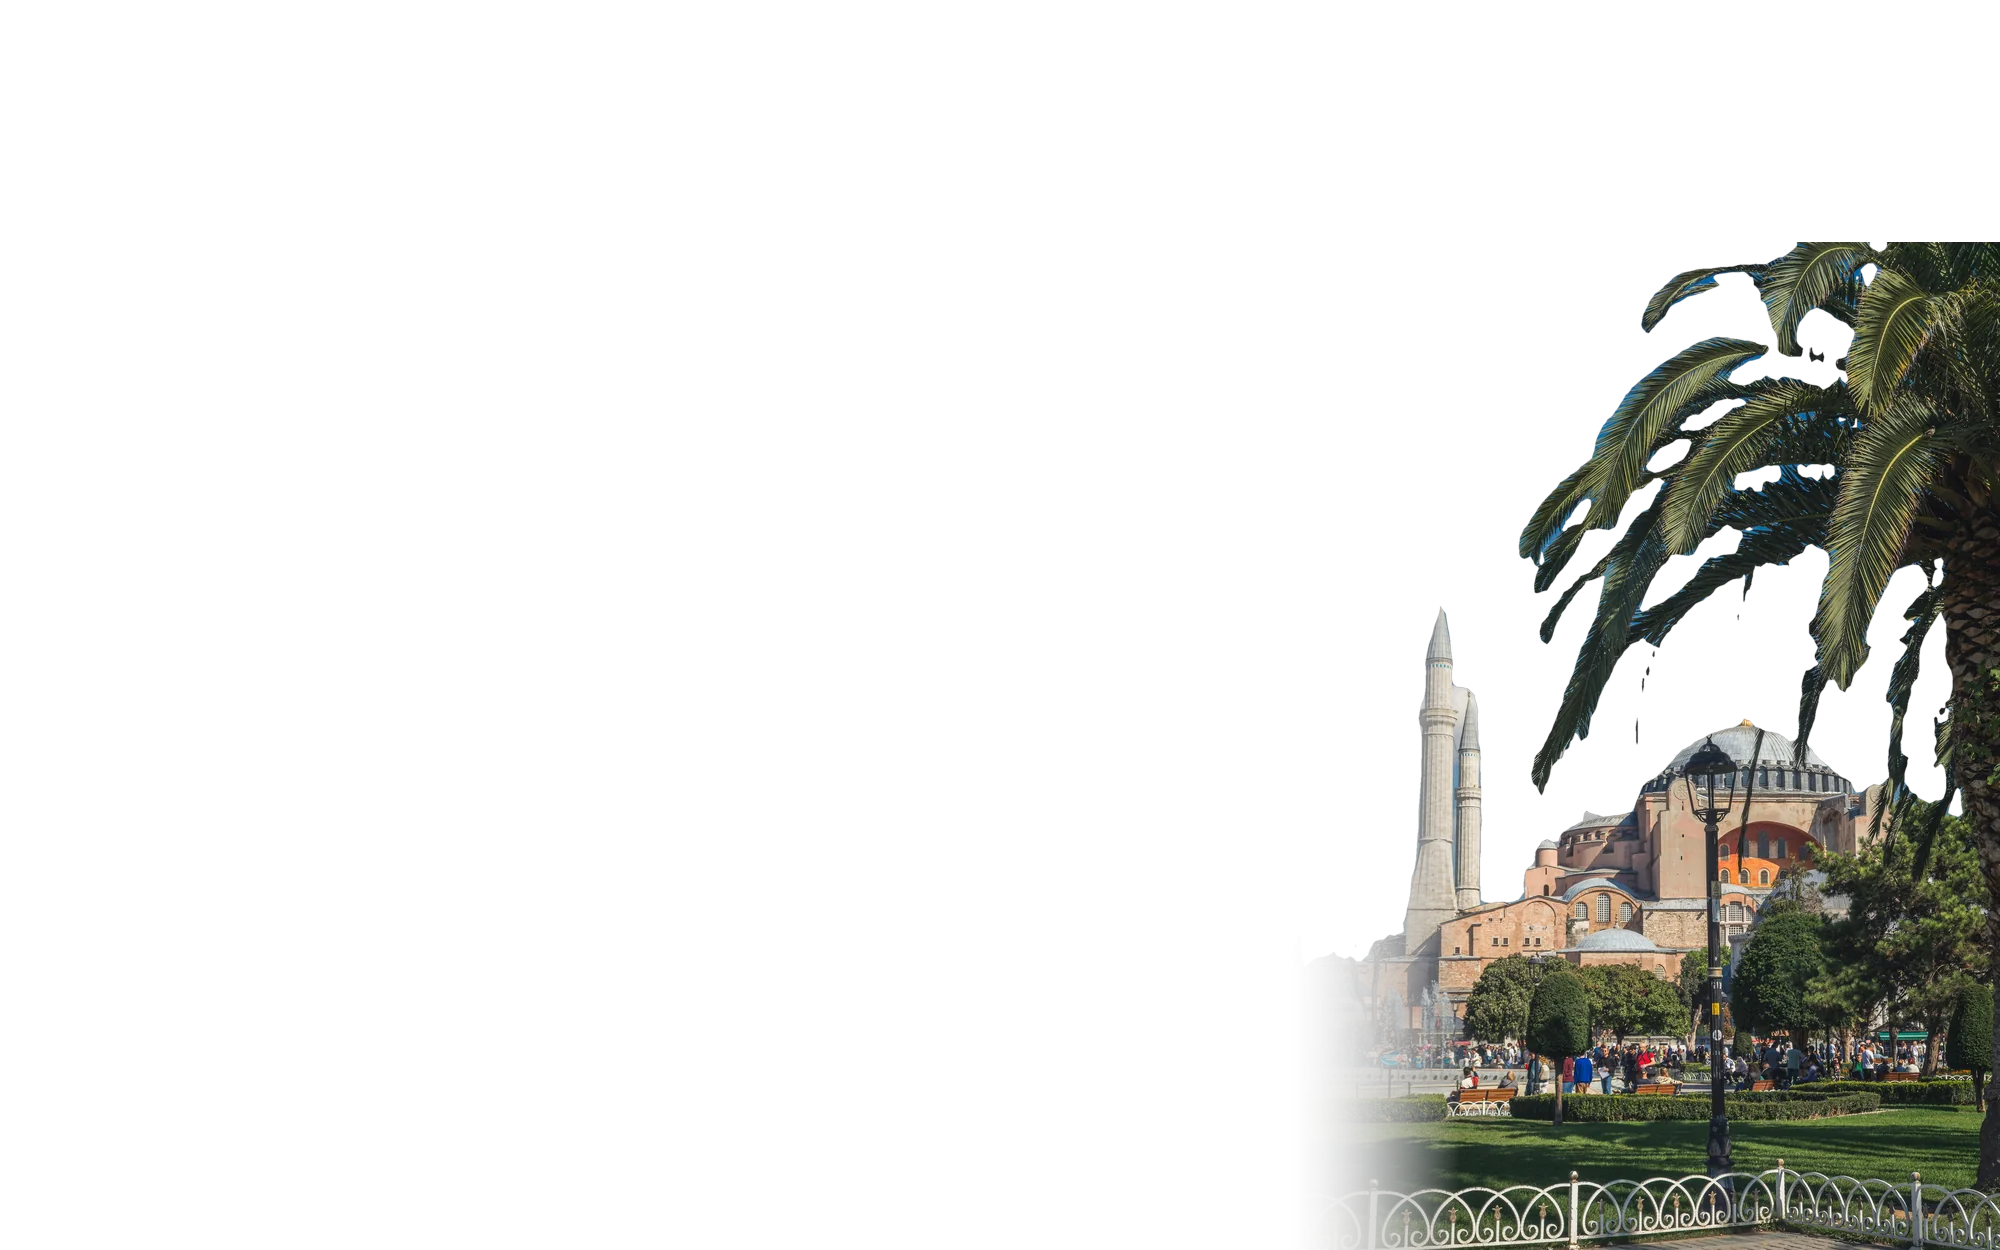
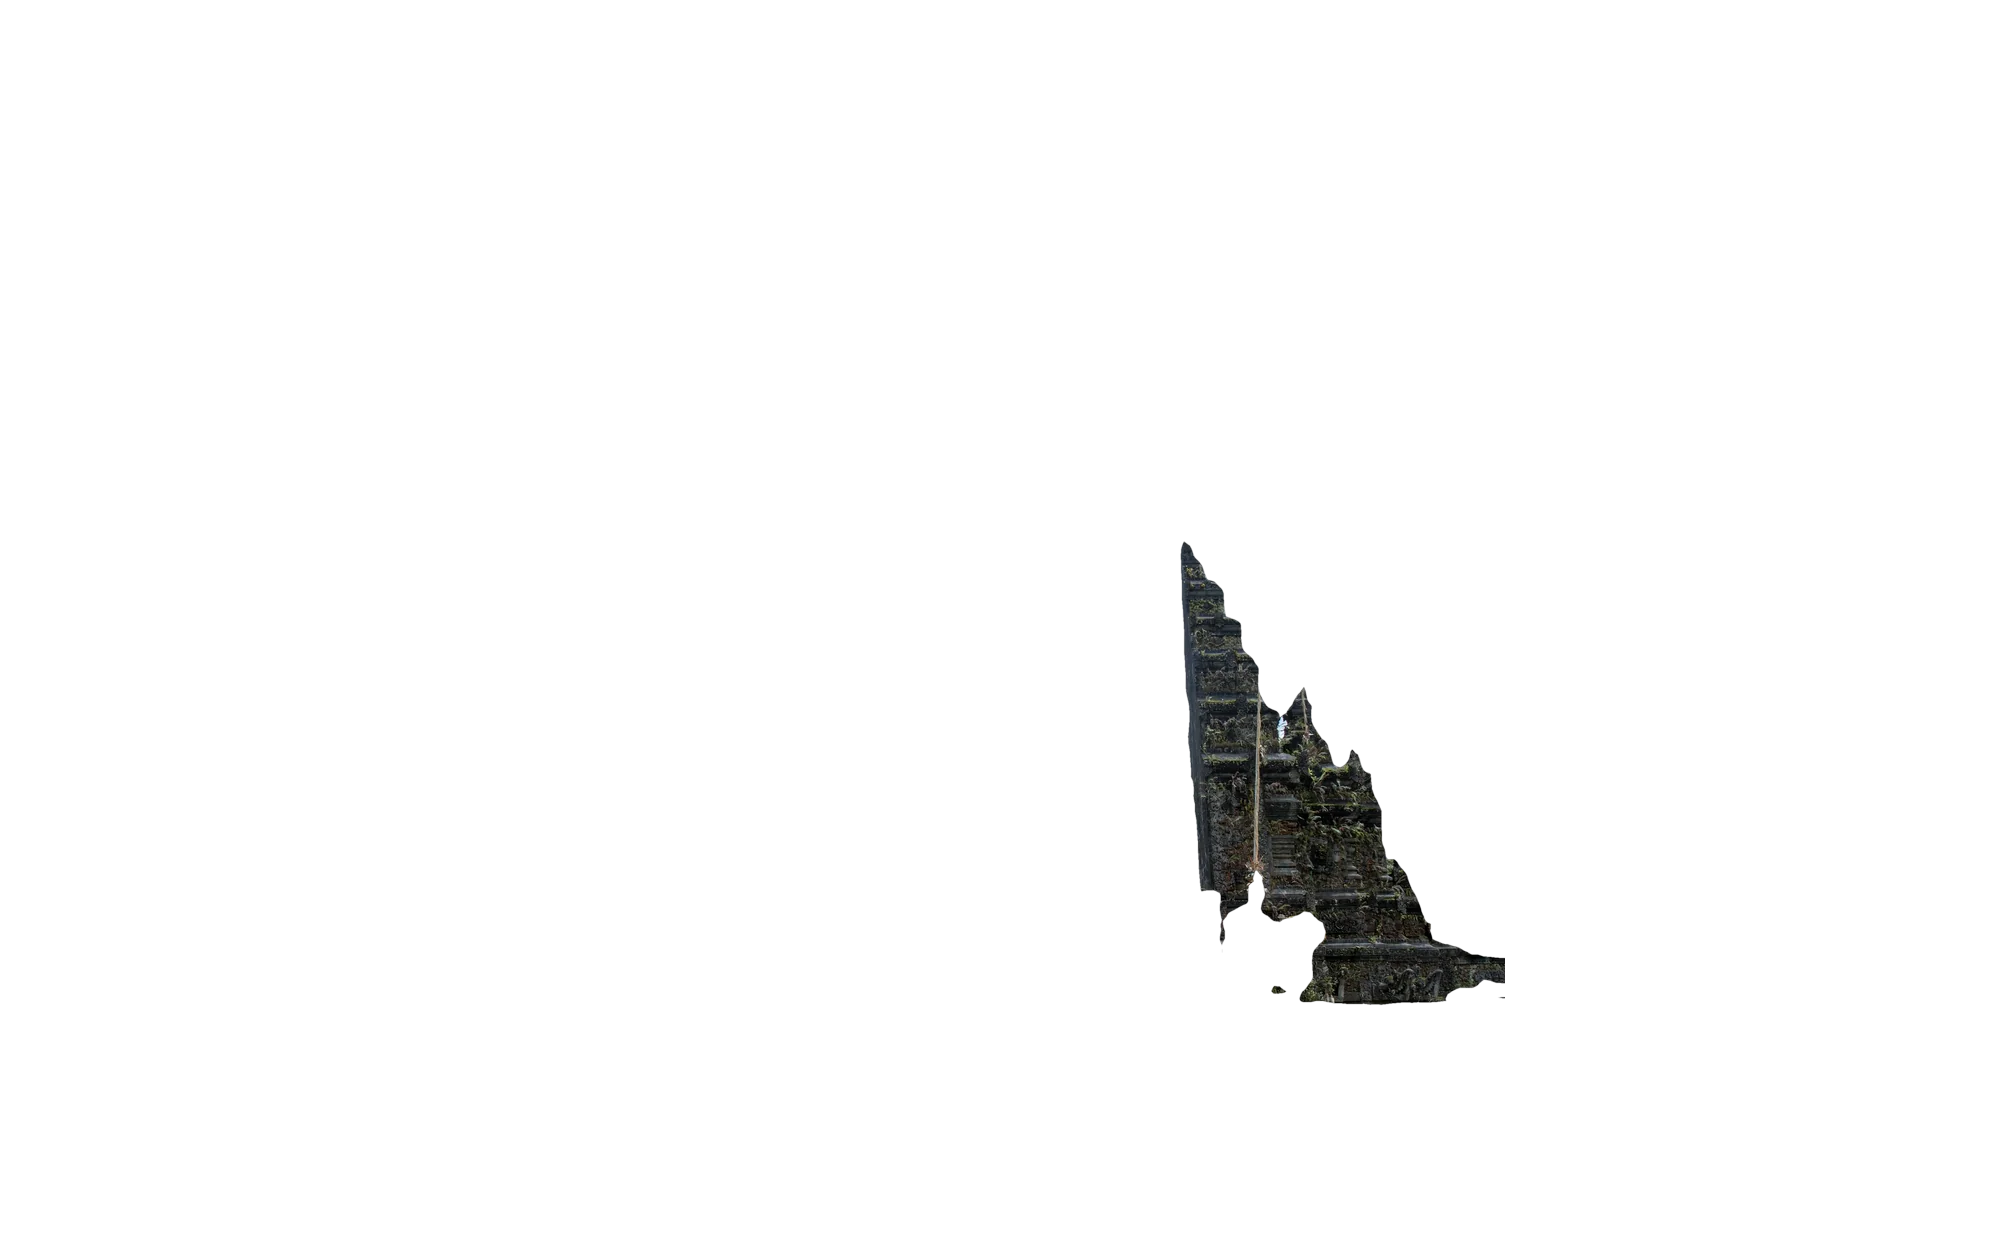
Bali hero scene, fix advantages panel overlapping header on short viewports
Handara gate halves as splitframes, Ulun Danu temple centre, rice
terraces behind. Advantages panel clamped below the header, splitframes
fade out when the slider arrives, cache-busting on CSS/JS.

Changed region(s): [[0.589, 0.1872, 1.0, 1.0]]

diff --git a/styles.css b/styles.css
@@ -23,6 +23,7 @@
   --bridge-width: 67.2vw; --bridge-scale: 1.02;
   --split-left-x: -50%;  --split-left-y: 0px;  --split-left-scale: 1;
   --split-right-x: -50%; --split-right-y: 0px; --split-right-scale: 1;
+  --split-opacity: 1;
   --frame2-opacity: 0; --frame2-x: -50%; --frame2-y: -50%; --frame2-scale: 1.06;
   --intro-copy-y: 0px; --intro-copy-opacity: 1;
   --panel2-opacity: 0; --panel2-y: calc(-50% + 58px);
@@ -156,7 +157,8 @@ button { border: 0; font: inherit; }
 }
 
 .sights-controls {
-  z-index: 5; left: 48px; right: auto;
+  z-index: 7; /* above the splitframe halves that stay parked at the screen edges */
+  left: 48px; right: auto;
   top: calc(var(--sights-screen-top) + 220px + 16px);
   display: flex; justify-content: flex-start; gap: 14px;
   opacity: var(--sights-controls-opacity);
@@ -188,6 +190,7 @@ button { border: 0; font: inherit; }
 }
 .splitframe-img {
   z-index: 6; left: 50%; bottom: -2vh; width: min(118vw, 2240px); height: auto; pointer-events: none;
+  opacity: var(--split-opacity);
 }
 .splitframe-left {
   transform: translate3d(var(--split-left-x), var(--split-left-y), 0) scale(var(--split-left-scale));
@@ -244,7 +247,7 @@ button { border: 0; font: inherit; }
   line-height: 1.18; text-shadow: 0 2px 18px rgba(0, 0, 0, 0.42);
 }
 .story-panel-bridge { top: 60%; opacity: var(--panel2-opacity); transform: translate3d(-50%, var(--panel2-y), 0); }
-.story-panel-bazaar { top: 29%; opacity: var(--panel3-opacity); transform: translate3d(-50%, var(--panel3-y), 0); }
+.story-panel-bazaar { top: max(29%, 290px); /* keeps the panel clear of the header on short viewports */ opacity: var(--panel3-opacity); transform: translate3d(-50%, var(--panel3-y), 0); }
 .facts {
   display: grid; grid-template-columns: repeat(2, minmax(0, 1fr)); gap: 86px;
   width: min(470px, 100%); margin: 72px auto 0;
@@ -328,7 +331,7 @@ button { border: 0; font: inherit; }
   .hero-tags { gap: 8px; }
   .hero-tags span { min-height: 38px; padding: 0 16px; font-size: 0.88rem; }
   .story-panel { top: 42%; }
-  .story-panel-bazaar { top: 26%; }
+  .story-panel-bazaar { top: max(26%, 300px); }
   .story-panel h2 { font-size: 2.45rem; }
   .facts { gap: 18px; margin-top: 34px; }
   .facts dt { font-size: 2.5rem; }

diff --git a/script.js b/script.js
@@ -99,6 +99,7 @@
     setVar("--bridge-width", `${(67.2 + frame2.enter * 37.8).toFixed(3)}vw`);
     setVar("--bridge-scale", (1.02 + sharedHeroScale + frame2.exit * 0.46).toFixed(4));
 
+    setVar("--split-opacity", (1 - sightsEnterRaw).toFixed(4)); // gate halves fade out as the slider arrives
     setVar("--split-left-x", `calc(-50% + ${(-splitDrift * 46).toFixed(3)}vw + ${(mouseX * 22).toFixed(3)}px)`);
     setVar("--split-left-y", `${(mouseY * 10 + sharedHeroY - splitDrift * 180).toFixed(3)}px`);
     setVar("--split-left-scale", (1 + sharedHeroScale + frame2.enter * 0.74).toFixed(4));

diff --git a/index.html b/index.html
@@ -9,8 +9,8 @@
   <link rel="preconnect" href="https://fonts.googleapis.com" />
   <link rel="preconnect" href="https://fonts.gstatic.com" crossorigin />
   <link rel="stylesheet" href="https://fonts.googleapis.com/css2?family=Inter:wght@400;500;700;800&family=Playfair+Display:wght@500&display=swap" />
-  <link rel="stylesheet" href="styles.css" />
-  <script src="script.js" defer></script>
+  <link rel="stylesheet" href="styles.css?v=3" />
+  <script src="script.js?v=3" defer></script>
 </head>
 <body>
   <main class="site-shell">

diff --git a/PROGRESS.md b/PROGRESS.md
@@ -9,15 +9,19 @@
 
 ## Ключевые решения
 - Шрифт Ogg Medium (с cloudfront) не содержит кириллицы → для русских заголовков фолбэк Playfair Display 500 (Google Fonts). Латиница «IN WAY TOUR» и цифры — в Ogg. Inter подключён с Google Fonts (кириллица для текста).
-- Сценовые слои заменены на Стамбул/Дубай (папка `img/`, WebP, ~2.4 МБ суммарно). Источник — Unsplash (лицензия Unsplash, бесплатно для коммерческого использования):
+- Сценовые слои: хиро — Бали, второй кадр — Дубай (папка `img/`, WebP). Источник — Unsplash (лицензия Unsplash, коммерческое использование без атрибуции):
   - `sky.webp` — небо с кучевыми облаками над морем (photo-1773125937987);
-  - `bridge.webp` (центр, «мост») — Голубая мечеть (photo-1781877770743), удалены небо и вода, растушёваны бока и низ (ниже 50% высоты прозрачно, иначе после «вылета» слой перекрывал карточки);
-  - `split-left.webp` — башня Галата (photo-1777750083107), `split-right.webp` — Айя-София с пальмой (photo-1765394945627), оба на общем прозрачном холсте 2000×1250, чтобы CSS сплит-кадров не менять;
-  - `back-skyline.webp` — панорама Стамбула (photo-1767555678276), верх с холмами обрезан, чтобы над городом было чистое небо под карточки;
+  - `bridge.webp` (центр, «мост») — храм Пура Улун Дану Братан (photo-1544644181), удалены небо/вода/горы, кадр обрезан по шпилю, низ прозрачен ниже 74% высоты (иначе после «вылета» слой перекрывал карточки);
+  - `split-left.webp` / `split-right.webp` — половинки ворот Хандара (photo-1551505256), только камень (растительность, дорога, земля удалены), на общем холсте 2000×1250 с внутренними краями на 41%/59% — при скролле ворота раскрываются;
+  - `back-skyline.webp` — рисовые террасы Тегаллаланг (photo-1729814909435), верх обрезан на 30% и растушёван на 40%, бока на 320px;
   - `frame-two.webp` — Дубай (photo-1718975662468), затемнён до 0.66 и слегка размыт ради читаемости текста;
-  - `glow.webp` — процедурное тёплое свечение (RGBA). Важно: чёрный фон + `mix-blend-mode: screen` не работает, т.к. небо вне стекового контекста `.back-stack`.
+  - `glow.webp` — процедурное тёплое свечение (RGBA). Чёрный фон + `mix-blend-mode: screen` не работает, т.к. небо вне стекового контекста `.back-stack`.
+  - Стамбульский вариант (мечеть/Галата/Айя-София) остался в истории git (коммит 0a610eb).
 - Пайплайн вырезки: SegFormer-b2 (ADE20K) → маска классов sky/water → альфа; скрипты в scratchpad, при необходимости повторить — см. `img/` как эталон геометрии.
-- `.sights-slider` поднят до `z-index: 4` (в промте 2), чтобы карточки не перекрывались слоем панорамы.
+- `.sights-slider` поднят до `z-index: 4` (в промте 2), `.sights-controls` до 7 (в промте 5) — карточки и кнопки не перекрываются задними/боковыми слоями.
+- Сплит-кадры получают `--split-opacity = 1 - sightsEnterRaw`: половинки ворот растворяются, когда приезжает слайдер (иначе висели по краям поверх карточек).
+- Панель «Преимущества» (`.story-panel-bazaar`): `top: max(29%, 290px)` (мобильный `max(26%, 300px)`) — на 1280×720 и ниже она налезала на шапку (баг «Преимущества ломается»).
+- CSS/JS подключены с `?v=N` для сброса кэша у посетителей; при правках стилей/скрипта увеличивать N.
 - Нав «Туры»/«Преимущества» и кнопка «Подобрать тур» скроллят к нужному смещению внутри sticky-сцены через `data-scroll` (1100 / 2300 / 3700 px).
 - В слайдере 6 карточек-направлений вместо 5 (логика бесконечной прокрутки не зависит от количества).
 
